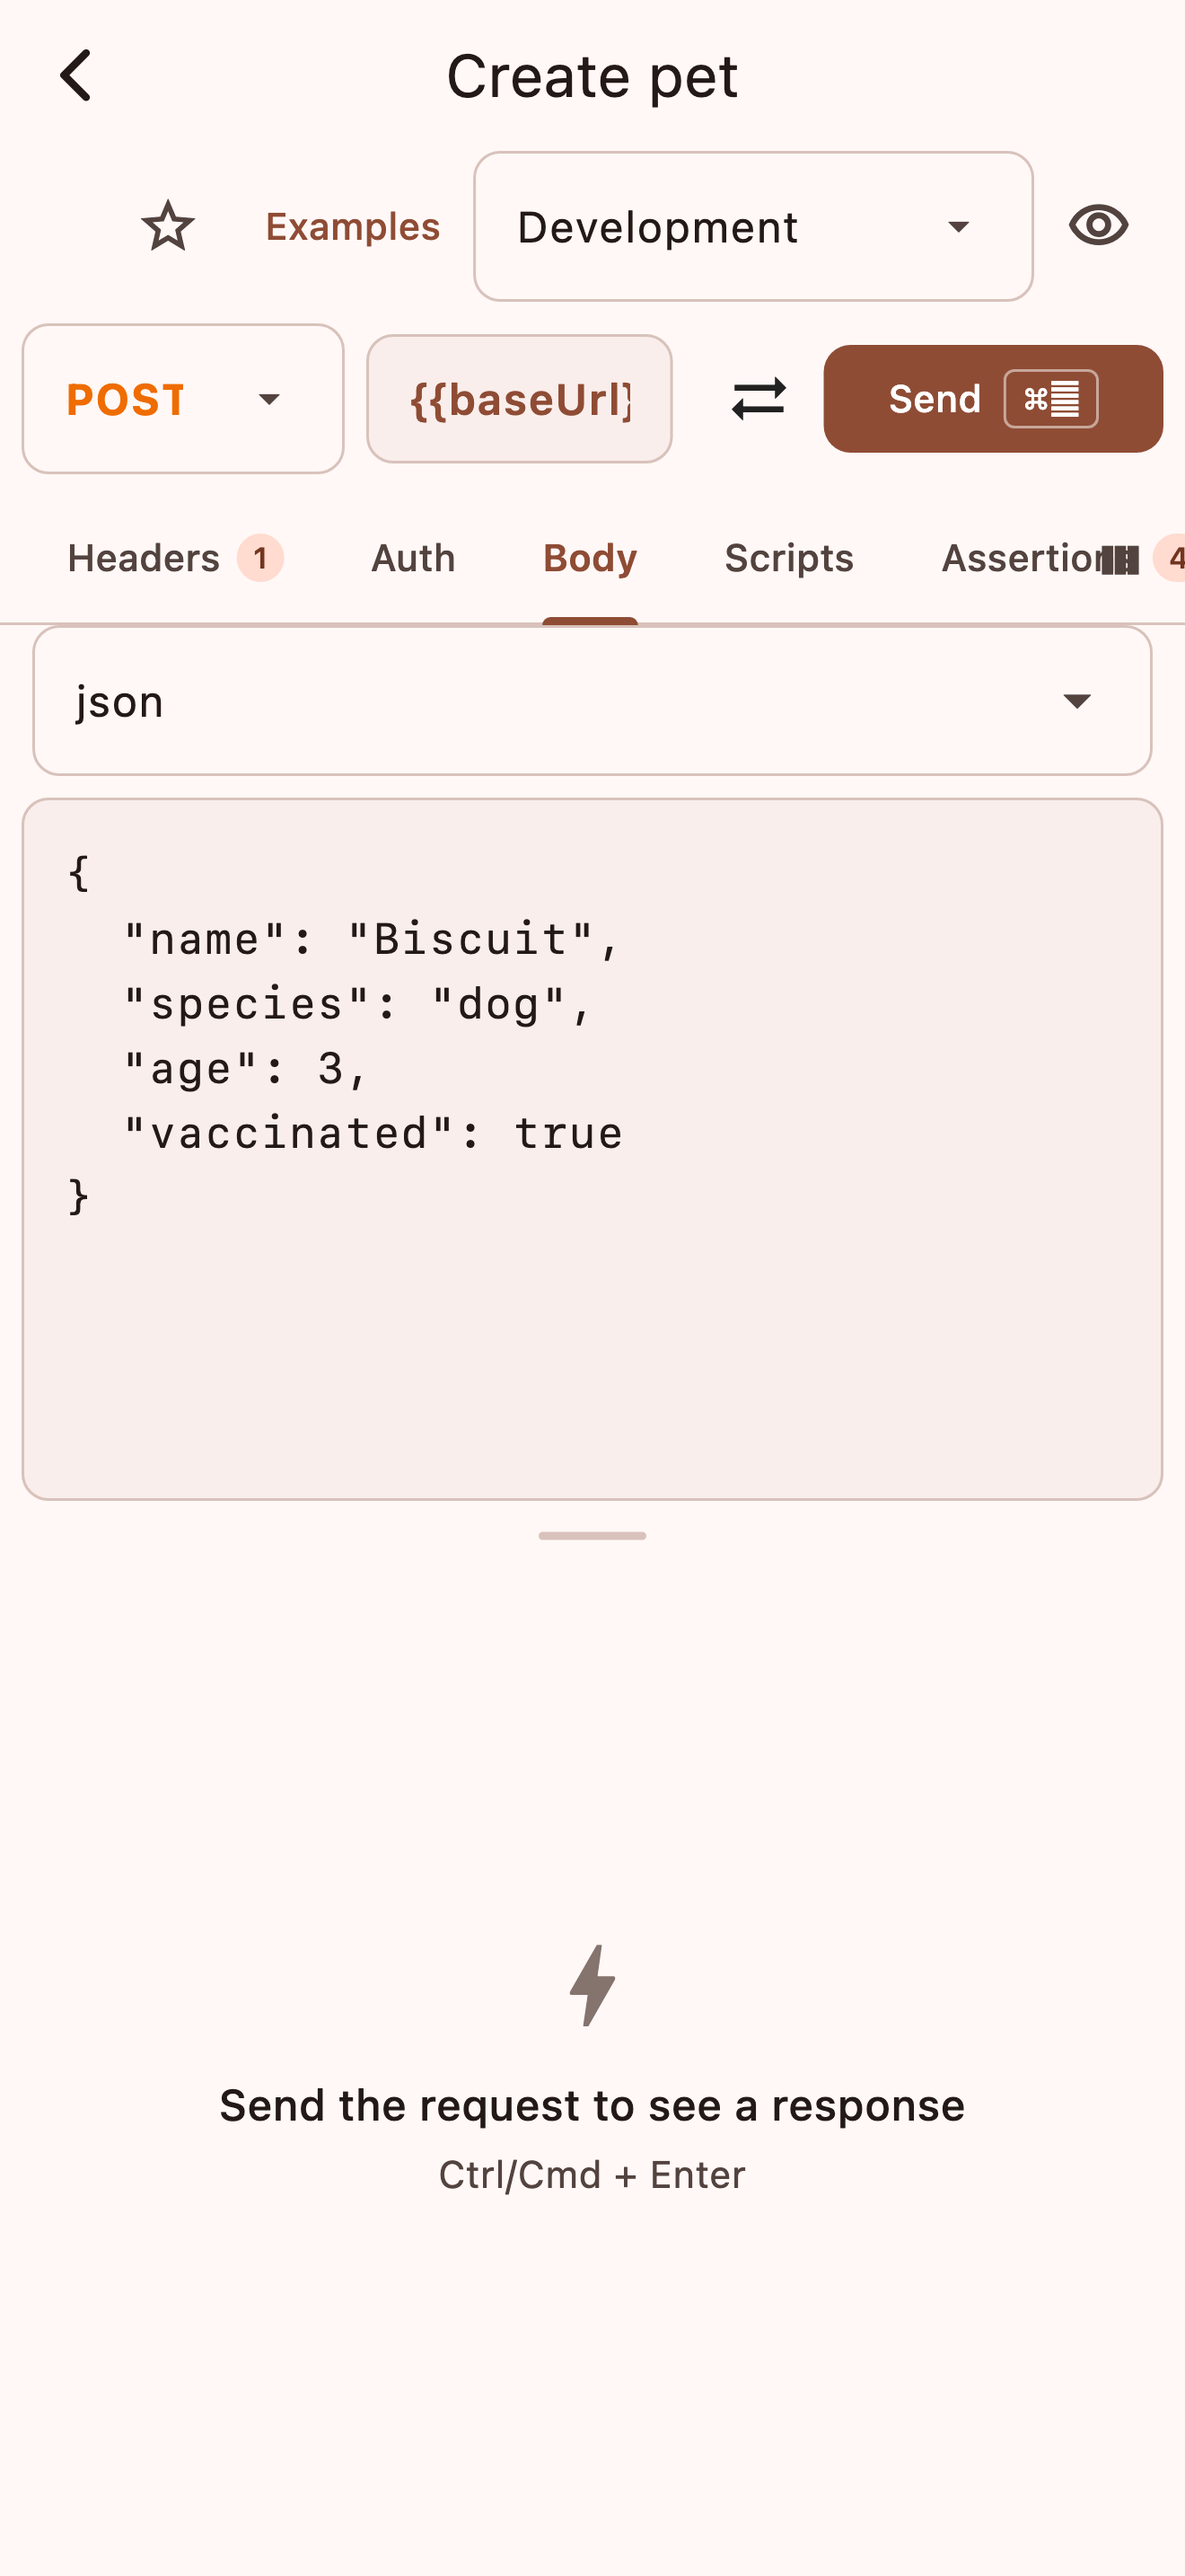
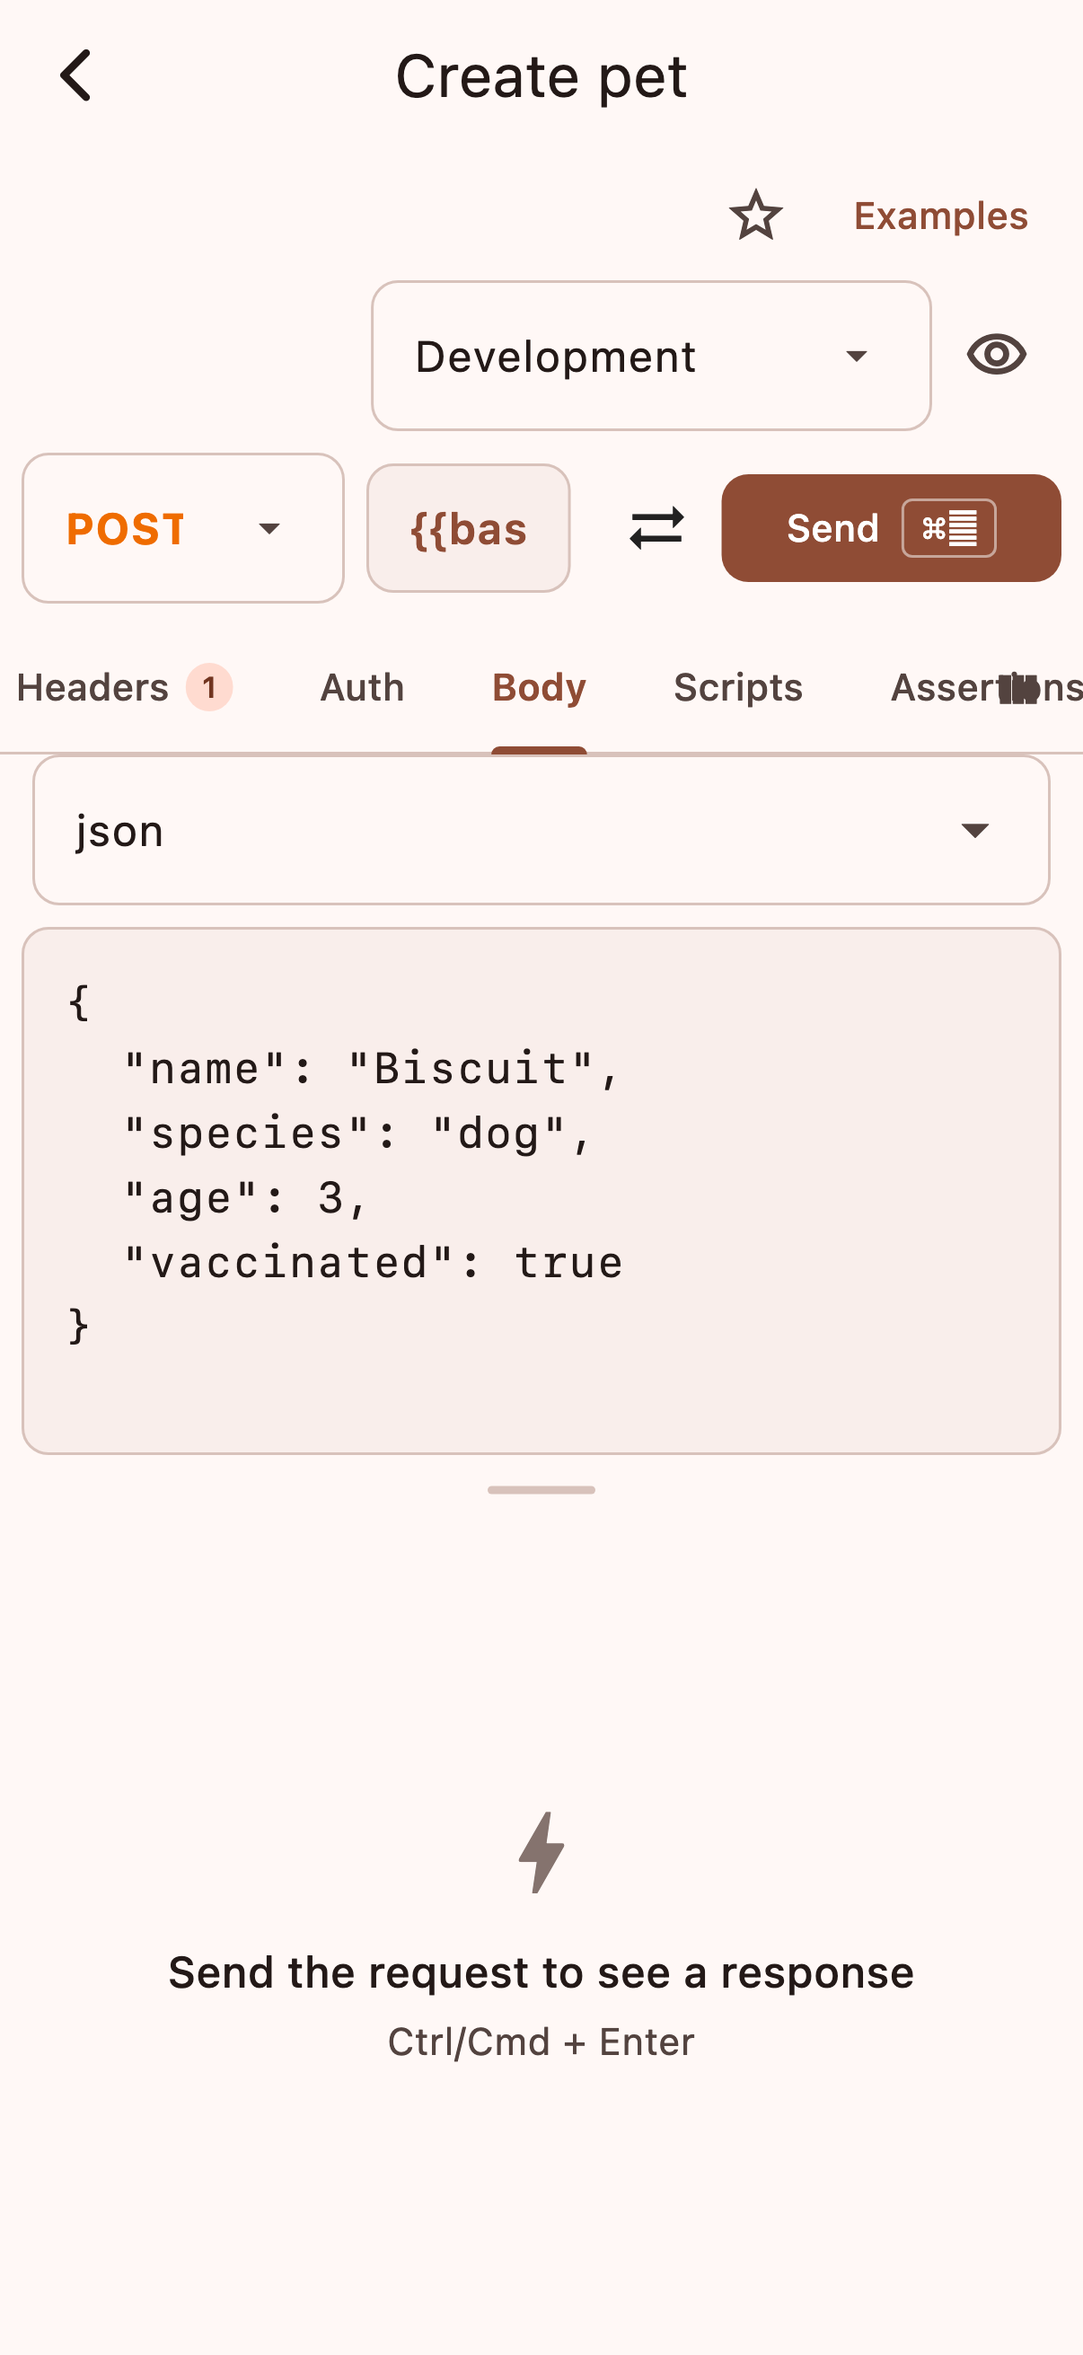
chore(release): iPhone screenshots at 6.3in Dynamic Island size (1206x2622)

diff --git a/apps/verbnest_app/tool/screenshots_test.dart b/apps/verbnest_app/tool/screenshots_test.dart
@@ -30,7 +30,8 @@ import 'package:verbnest_http/verbnest_http.dart';
 import 'package:verbnest_storage/verbnest_storage.dart';
 
 /// One output size per store listing. Pixel sizes match the Triplogger
-/// listings so both apps share the same store assets: iPhone 6.9" and iPad
+/// listings so both apps share the same store assets: iPhone 6.3" (Dynamic
+/// Island, 402 x 874 pt) and iPad
 /// 13" for the App Store, phone and 10" tablet for Google Play, and 2880 x
 /// 1800 (16:10) for the Mac App Store.
 class _Profile {
@@ -65,7 +66,7 @@ const _profiles = {
   // registered under macOS's dot-prefixed family, and both use San Francisco
   // with ⌘ shortcuts.
   'macos': _Profile(Size(2880, 1800), 2, TargetPlatform.iOS),
-  'iphone': _Profile(Size(1320, 2868), 3, TargetPlatform.iOS),
+  'iphone': _Profile(Size(1206, 2622), 3, TargetPlatform.iOS),
   'ipad': _Profile(Size(2064, 2752), 2, TargetPlatform.iOS, only: _tabletShots),
   'android-phone': _Profile(Size(1080, 2424), 3, TargetPlatform.android),
   'android-tablet': _Profile(
